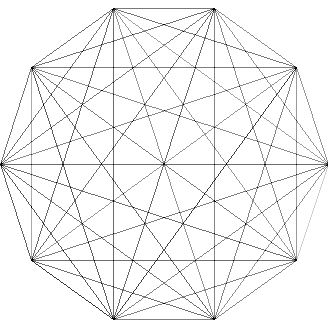
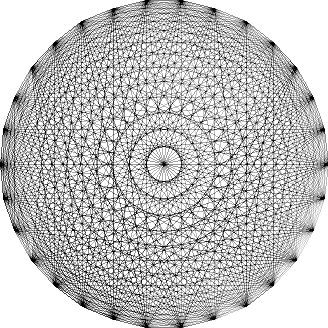
chore: upped number of pegs to 30

diff --git a/stringart/misc/lp_sandbox.py b/stringart/misc/lp_sandbox.py
@@ -6,13 +6,17 @@ import pulp
 from stringart.line_algorithms.matrix import MatrixGenerator
 from stringart.utils.image import ImageWrapper
 from stringart.utils.performance_analysis import Benchmark
-from stringart.utils.types import Metadata, Method, Mode
+from stringart.utils.types import Method, Mode
 
 image_path = "../../imgs/lena.png"
 image = ImageWrapper.read_bw(image_path)
 shape = image.shape
 image_mode = "center"
-number_of_pegs = 10
+# number_of_pegs = 100 -> 6513.97 seconds
+number_of_pegs = 40
+
+# TODO: scipy.optimize.nnls or scipy.optimize.lsq_linear
+# TODO: to do calculation for jump from 30 to 40 number of pegs. as it takes a lot more time than 30.
 
 
 def linear_programming(
